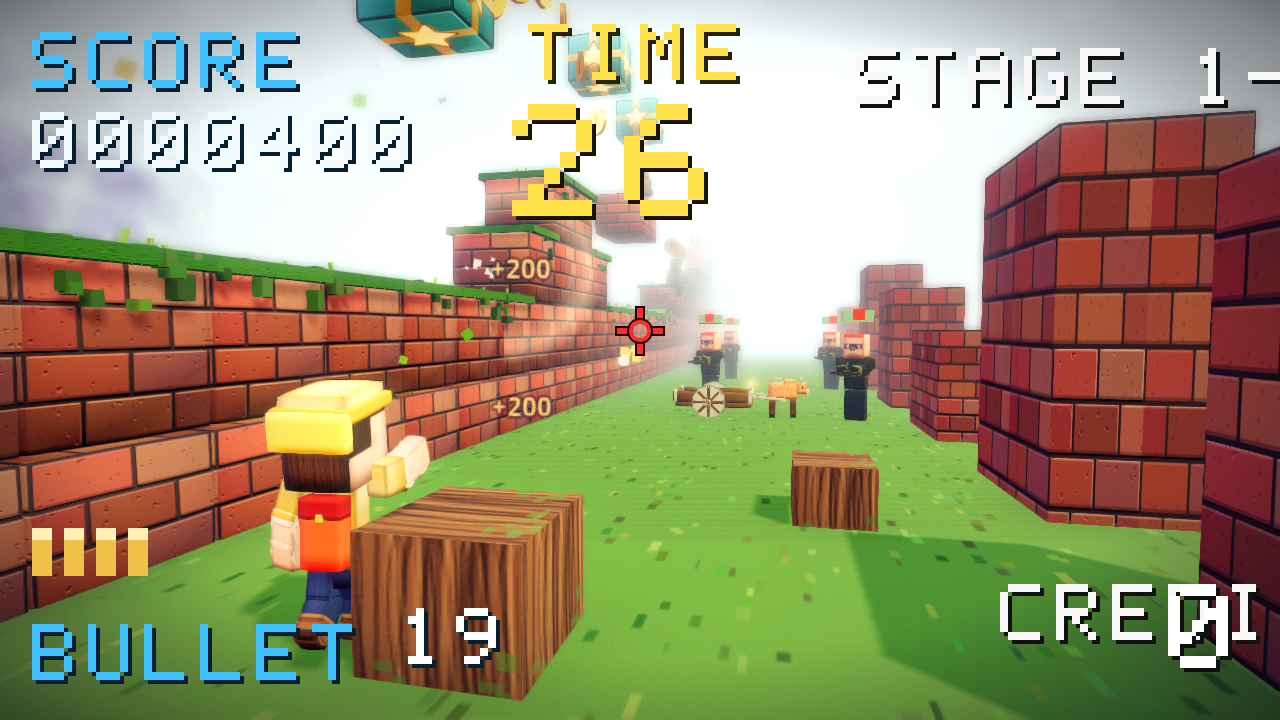
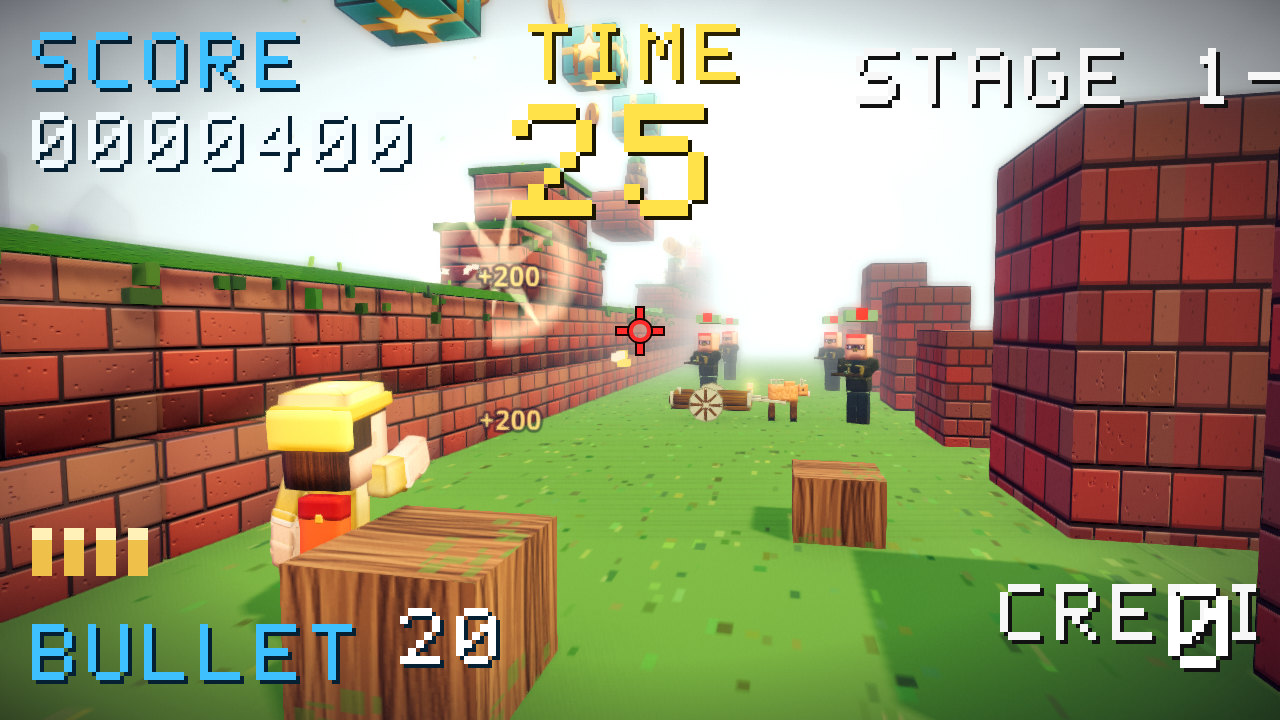
feat: add a small procedural pistol synth
Shot, dry click, reload, hit, and explosion are synthesized in the
browser and follow the jumper's SFX mute switch. The view pistol
also kicks and puffs smoke.

diff --git a/baro-baro-myeolgong/rail.js b/baro-baro-myeolgong/rail.js
@@ -11,7 +11,12 @@
   let t0 = 0;
   let pistol = null;
   let flash = null;
+  let flashHalo = null;
+  let recoil = 0;
+  let pistolBase = null;
+  let smokes = [];
   let sparks = [];
+  let reloading = false;
   let puff = null;
   let hud = null;
   let clock = 32;
@@ -210,12 +215,14 @@
     add(0.05, 0.16, 0.07, 0, -0.08, -0.02, dark);
     add(0.09, 0.05, 0.1, 0, -0.02, 0.02, skin);
     add(0.035, 0.04, 0.08, 0.05, -0.01, -0.02, skin);
-    const f = add(0.06, 0.06, 0.06, 0, 0.06, -0.46, new T.MeshBasicMaterial({ color: 0xffe14a }));
+    const f = add(0.08, 0.08, 0.1, 0, 0.07, -0.5, new T.MeshBasicMaterial({ color: 0xfff2a0 }));
     f.visible = false;
-    g.position.set(0.02, -0.36, -0.48);
-    g.scale.setScalar(1.45);
+    const halo = add(0.22, 0.22, 0.04, 0, 0.07, -0.46, new T.MeshBasicMaterial({ color: 0xffc14a, transparent: true, opacity: 0.85, depthWrite: false }));
+    halo.visible = false;
+    g.position.set(0.02, -0.34, -0.42);
+    g.scale.setScalar(1.35);
     camera.add(g);
-    return { g, flash: f };
+    return { g, flash: f, halo };
   }
 
   function boot(ctx) {
@@ -307,7 +314,19 @@
     } catch (err) { /* truck is optional */ }
     const rig = makePistol(ctx.camera);
     pistol = rig.g;
+    pistolBase = { z: rig.g.position.z, y: rig.g.position.y };
     flash = rig.flash;
+    flashHalo = rig.halo;
+    if (ctx.renderer) {
+      if (T.ACESFilmicToneMapping) ctx.renderer.toneMapping = T.ACESFilmicToneMapping;
+      if ("toneMappingExposure" in ctx.renderer) ctx.renderer.toneMappingExposure = 1.12;
+    }
+    if (!window.__railKeys) {
+      window.__railKeys = 1;
+      addEventListener("keydown", (e) => {
+        if (e.code === "KeyR") window.RAIL.reload();
+      });
+    }
     const mount = ctx.renderer && ctx.renderer.domElement;
     if (mount && !mount._rail) {
       mount._rail = 1;
@@ -330,14 +349,37 @@
     }
   }
 
+  function gun(name) {
+    const g = window.GunSFX;
+    if (!g) return;
+    try { g.unlock(); g[name] && g[name](); } catch (e) {}
+  }
+
+  function spawnSmoke(camera) {
+    if (smokes.length > 8) return;
+    const m = new T.Mesh(
+      new T.SphereGeometry(0.04, 6, 5),
+      new T.MeshBasicMaterial({ color: 0xd8d2c4, transparent: true, opacity: 0.35, depthWrite: false })
+    );
+    m.position.set((Math.random() - 0.5) * 0.04, 0.02, -0.48);
+    m.userData.life = 0.45;
+    m.userData.v = new T.Vector3((Math.random() - 0.5) * 0.05, 0.08 + Math.random() * 0.05, -0.02);
+    camera.add(m);
+    smokes.push(m);
+  }
+
   function fire(ctx) {
-    if (!ctx || !booted || bullets <= 0) return;
+    if (!ctx || !booted || reloading) return;
     const now = performance.now();
-    if (now - lastShot < 160) return;
+    if (now - lastShot < 140) return;
+    if (bullets <= 0) { gun("dry"); lastShot = now; return; }
     lastShot = now;
     bullets--;
-    if (flash) flash.visible = true;
-    try { ctx.snd && ctx.snd("throw"); } catch (e) {}
+    recoil = 1;
+    if (flash) { flash.visible = true; flash.scale.setScalar(1); }
+    if (flashHalo) { flashHalo.visible = true; flashHalo.scale.setScalar(1); }
+    spawnSmoke(ctx.camera);
+    gun("shot");
     const ray = new T.Raycaster();
     ray.setFromCamera(new T.Vector2(0, 0), ctx.camera);
     ray.far = 24;
@@ -355,16 +397,14 @@
       burst(ctx.scene, hit.at.x, hit.at.y, hit.at.z);
       try { ctx.hitFlash && ctx.hitFlash(hit.e); } catch (e) {}
       const boss = ctx.BOSSK && ctx.BOSSK[hit.e.kind];
+      const dying = !boss && (hit.e.hp || 1) <= 1;
+      gun(dying ? "boom" : "hit");
       if (boss && ctx.hitBoss) ctx.hitBoss(hit.e, 1);
-      else if ((hit.e.hp || 1) > 1) {
-        hit.e.hp -= 1;
-        try { ctx.snd && ctx.snd("stomp"); } catch (e) {}
-      } else if (ctx.killFlip) {
+      else if (!dying) hit.e.hp -= 1;
+      else if (ctx.killFlip) {
         ctx.killFlip(hit.e, 200);
         if (ctx.addScore) ctx.addScore(200, hit.e.x, hit.e.y);
-      } else {
-        hit.e.alive = false;
-      }
+      } else hit.e.alive = false;
     }
     window.__railShot = 1;
   }
@@ -394,7 +434,35 @@
     });
     if (ctx.pl) ctx.pl.inv = 99999;
     ctx.setState && ctx.setState("play");
-    if (flash && performance.now() - lastShot > 90) flash.visible = false;
+    const since = performance.now() - lastShot;
+    const kick = Math.max(0, recoil);
+    recoil = Math.max(0, recoil - 0.08);
+    if (pistol && pistolBase) {
+      pistol.position.z = pistolBase.z + kick * 0.07;
+      pistol.position.y = pistolBase.y - kick * 0.02;
+      pistol.rotation.x = kick * 0.18;
+    }
+    if (flash) {
+      flash.visible = since < 70;
+      flash.scale.setScalar(1 + (1 - Math.min(1, since / 70)) * 1.4);
+    }
+    if (flashHalo) {
+      flashHalo.visible = since < 90;
+      const k = Math.min(1, since / 90);
+      flashHalo.scale.setScalar(1 + k * 2.2);
+      flashHalo.material.opacity = 0.8 * (1 - k);
+    }
+    for (let i = smokes.length - 1; i >= 0; i--) {
+      const s = smokes[i];
+      s.userData.life -= 0.016;
+      s.position.add(s.userData.v);
+      s.scale.multiplyScalar(1.03);
+      s.material.opacity = Math.max(0, s.userData.life);
+      if (s.userData.life <= 0) {
+        s.parent && s.parent.remove(s);
+        smokes.splice(i, 1);
+      }
+    }
     for (let i = sparks.length - 1; i >= 0; i--) {
       const s = sparks[i];
       s.userData.life -= 0.016;
@@ -421,6 +489,12 @@
     fire: () => {
       const ctx = window.__railCtx;
       if (ctx) fire(ctx);
+    },
+    reload: () => {
+      if (!booted || reloading || bullets >= 20) return;
+      reloading = true;
+      gun("reload");
+      setTimeout(() => { bullets = 20; reloading = false; }, 420);
     }
   };
 })();

diff --git a/baro-baro-myeolgong/gun-sfx.js b/baro-baro-myeolgong/gun-sfx.js
@@ -1,0 +1,173 @@
+/* Procedural pistol kit for 지금 바로 멸공.
+   Layering idea (not the source): a dry crack, a body band, a low thump,
+   a later mechanical tick, and a short outdoor tail on a separate bus.
+   Plays only when the jumper's SFX switch is on. */
+(function () {
+  let ctx = null;
+  let master = null;
+  let tailIn = null;
+  function muted() {
+    try {
+      if (typeof SFX !== "undefined" && SFX.isOn && !SFX.isOn()) return true;
+    } catch (e) {}
+    return false;
+  }
+
+  function ac() {
+    if (!ctx) {
+      const AC = window.AudioContext || window.webkitAudioContext;
+      ctx = new AC();
+      master = ctx.createGain();
+      master.gain.value = 0.55;
+      const delay = ctx.createDelay(0.5);
+      delay.delayTime.value = 0.038;
+      const lp = ctx.createBiquadFilter();
+      lp.type = "lowpass";
+      lp.frequency.value = 1600;
+      const fb = ctx.createGain();
+      fb.gain.value = 0.32;
+      const send = ctx.createGain();
+      send.gain.value = 0.45;
+      delay.connect(lp);
+      lp.connect(fb);
+      fb.connect(delay);
+      fb.connect(send);
+      send.connect(master);
+      master.connect(ctx.destination);
+      tailIn = delay;
+    }
+    if (ctx.state === "suspended") ctx.resume();
+    return ctx;
+  }
+
+  function noise(c, seconds) {
+    const n = Math.max(1, Math.floor(c.sampleRate * seconds));
+    const buf = c.createBuffer(1, n, c.sampleRate);
+    const d = buf.getChannelData(0);
+    for (let i = 0; i < n; i++) d[i] = Math.random() * 2 - 1;
+    return buf;
+  }
+
+  function clip(c) {
+    const sh = c.createWaveShaper();
+    const curve = new Float32Array(64);
+    for (let i = 0; i < 64; i++) {
+      const x = (i / 63) * 2 - 1;
+      curve[i] = Math.tanh(x * 1.6);
+    }
+    sh.curve = curve;
+    return sh;
+  }
+
+  function band(c, t, dur, type, freq, q, gain, attack, decay, dest) {
+    const src = c.createBufferSource();
+    src.buffer = noise(c, dur);
+    const f = c.createBiquadFilter();
+    f.type = type;
+    f.frequency.value = freq;
+    f.Q.value = q;
+    const g = c.createGain();
+    g.gain.setValueAtTime(0.0001, t);
+    g.gain.exponentialRampToValueAtTime(Math.max(0.0002, gain), t + attack);
+    g.gain.exponentialRampToValueAtTime(0.0001, t + attack + decay);
+    src.connect(f);
+    f.connect(g);
+    g.connect(dest);
+    src.start(t);
+    src.stop(t + dur + 0.02);
+    return src;
+  }
+
+  function thump(c, t, f0, f1, dur, gain, dest) {
+    const o = c.createOscillator();
+    o.type = "sine";
+    o.frequency.setValueAtTime(f0, t);
+    o.frequency.exponentialRampToValueAtTime(Math.max(30, f1), t + dur);
+    const g = c.createGain();
+    g.gain.setValueAtTime(0.0001, t);
+    g.gain.exponentialRampToValueAtTime(gain, t + 0.004);
+    g.gain.exponentialRampToValueAtTime(0.0001, t + dur);
+    o.connect(g);
+    g.connect(dest);
+    o.start(t);
+    o.stop(t + dur + 0.02);
+  }
+
+  function shot() {
+    if (muted()) return;
+    const c = ac();
+    const t = c.currentTime;
+    const vary = 0.94 + Math.random() * 0.1;
+    const dry = c.createGain();
+    dry.gain.value = 0.9;
+    const sh = clip(c);
+    dry.connect(sh);
+    sh.connect(master);
+    const tail = c.createGain();
+    tail.gain.value = 0.22;
+    tail.connect(tailIn);
+    band(c, t, 0.05, "highpass", 3200 * vary, 0.7, 0.55, 0.001, 0.02, dry);
+    band(c, t, 0.12, "bandpass", 1400 * vary, 0.8, 0.42, 0.002, 0.05, dry);
+    band(c, t, 0.2, "lowpass", 480 * vary, 0.7, 0.2, 0.003, 0.09, dry);
+    thump(c, t, 160 * vary, 48, 0.07, 0.35, dry);
+    band(c, t + 0.016, 0.04, "bandpass", 2400 * vary, 2.2, 0.12, 0.001, 0.02, dry);
+    band(c, t, 0.28, "lowpass", 900, 0.6, 0.18, 0.01, 0.2, tail);
+  }
+
+  function dryFire() {
+    if (muted()) return;
+    const c = ac();
+    const t = c.currentTime;
+    band(c, t, 0.03, "highpass", 2800, 0.8, 0.22, 0.001, 0.012, master);
+    thump(c, t, 2100, 900, 0.02, 0.08, master);
+  }
+
+  function reload() {
+    if (muted()) return;
+    const c = ac();
+    const t = c.currentTime;
+    band(c, t, 0.05, "bandpass", 1800, 1.2, 0.2, 0.001, 0.03, master);
+    band(c, t + 0.09, 0.06, "bandpass", 900, 1.4, 0.24, 0.002, 0.04, master);
+    thump(c, t + 0.16, 1400, 700, 0.05, 0.1, master);
+    band(c, t + 0.17, 0.04, "highpass", 3600, 0.7, 0.16, 0.001, 0.018, master);
+  }
+
+  function hit() {
+    if (muted()) return;
+    const c = ac();
+    const t = c.currentTime;
+    band(c, t, 0.06, "bandpass", 2200, 1.5, 0.28, 0.001, 0.03, master);
+    thump(c, t, 640, 220, 0.05, 0.12, master);
+  }
+
+  function boom() {
+    if (muted()) return;
+    const c = ac();
+    const t = c.currentTime;
+    const g = c.createGain();
+    g.gain.value = 0.8;
+    g.connect(master);
+    band(c, t, 0.08, "highpass", 1800, 0.7, 0.4, 0.001, 0.03, g);
+    thump(c, t, 90, 36, 0.35, 0.5, g);
+    band(c, t, 0.45, "lowpass", 500, 0.5, 0.35, 0.01, 0.32, g);
+    const tail = c.createGain();
+    tail.gain.value = 0.4;
+    tail.connect(tailIn);
+    band(c, t, 0.5, "lowpass", 700, 0.5, 0.3, 0.02, 0.4, tail);
+  }
+
+  const api = {
+    shot, dry: dryFire, reload, hit, boom,
+    unlock() { try { ac(); } catch (e) {} }
+  };
+  window.GunSFX = api;
+  try {
+    if (typeof SFX !== "undefined") {
+      SFX.pistol = shot;
+      SFX.pistolDry = dryFire;
+      SFX.pistolReload = reload;
+      SFX.pistolHit = hit;
+      SFX.pistolBoom = boom;
+    }
+  } catch (e) {}
+})();

diff --git a/baro-baro-myeolgong/en.html b/baro-baro-myeolgong/en.html
@@ -23,7 +23,7 @@
   html = html.replace(cam, cam.replace("postRender52(scene,camera)", rail));
   const boot = '<script>(function(){var G="blockaction"';
   if (!html.includes(boot)) throw new Error("boot missing");
-  html = html.replace(boot, '<script src="rail.js"><\/script>' + boot);
+  html = html.replace(boot, '<script src="gun-sfx.js"><\/script><script src="rail.js"><\/script>' + boot);
   const doc = new DOMParser().parseFromString(html, "text/html");
   document.replaceChild(document.importNode(doc.documentElement, true), document.documentElement);
   const scripts = [...document.scripts];

diff --git a/baro-baro-myeolgong/index.html b/baro-baro-myeolgong/index.html
@@ -23,7 +23,7 @@
   html = html.replace(cam, cam.replace("postRender52(scene,camera)", rail));
   const boot = '<script>(function(){var G="blockaction"';
   if (!html.includes(boot)) throw new Error("boot missing");
-  html = html.replace(boot, '<script src="rail.js"><\/script>' + boot);
+  html = html.replace(boot, '<script src="gun-sfx.js"><\/script><script src="rail.js"><\/script>' + boot);
   const doc = new DOMParser().parseFromString(html, "text/html");
   document.replaceChild(document.importNode(doc.documentElement, true), document.documentElement);
   const scripts = [...document.scripts];
